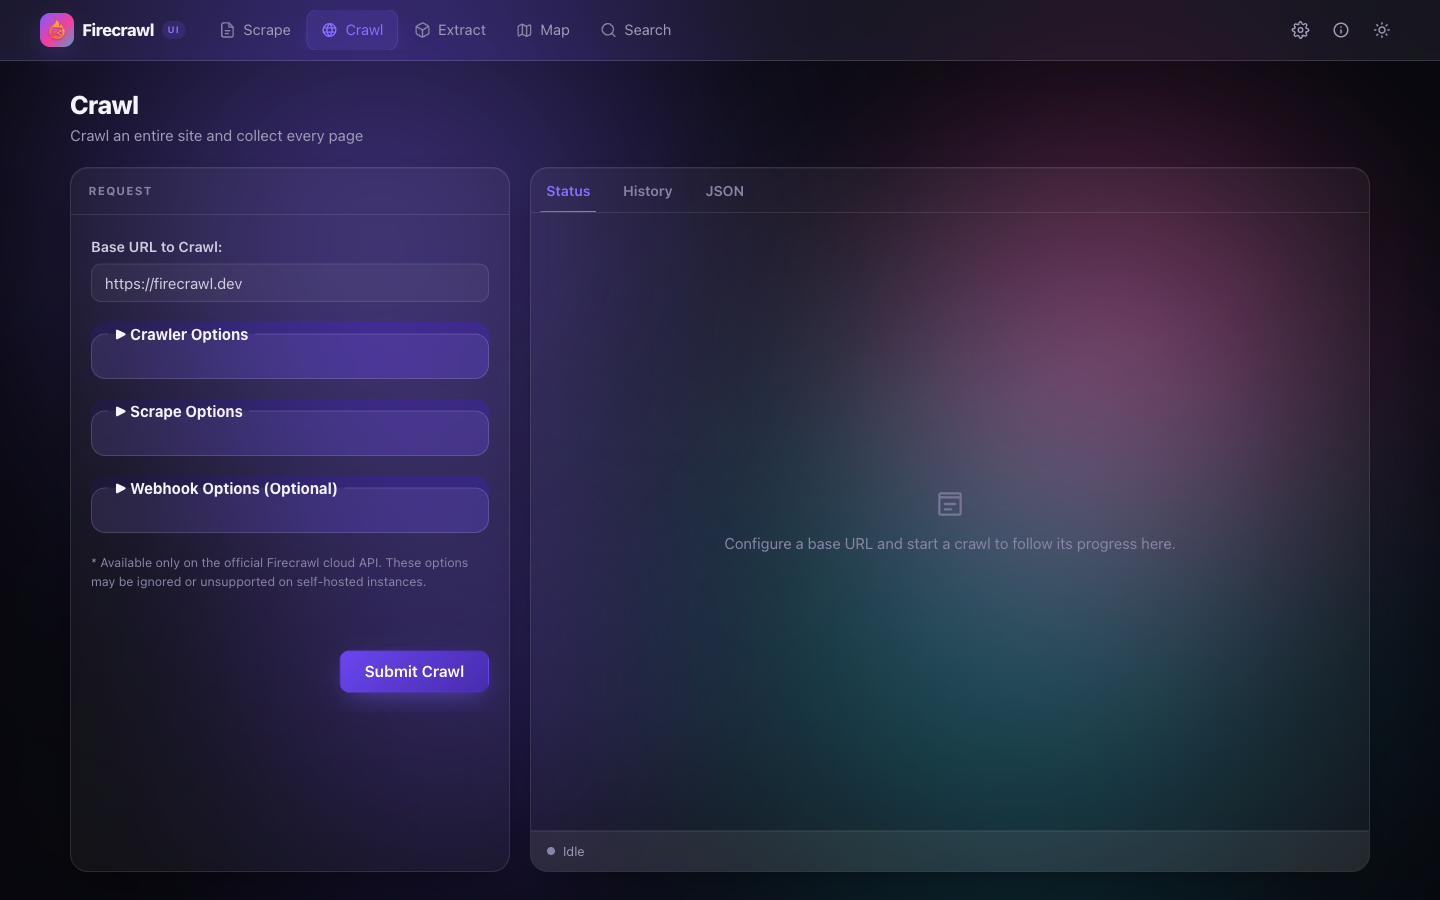
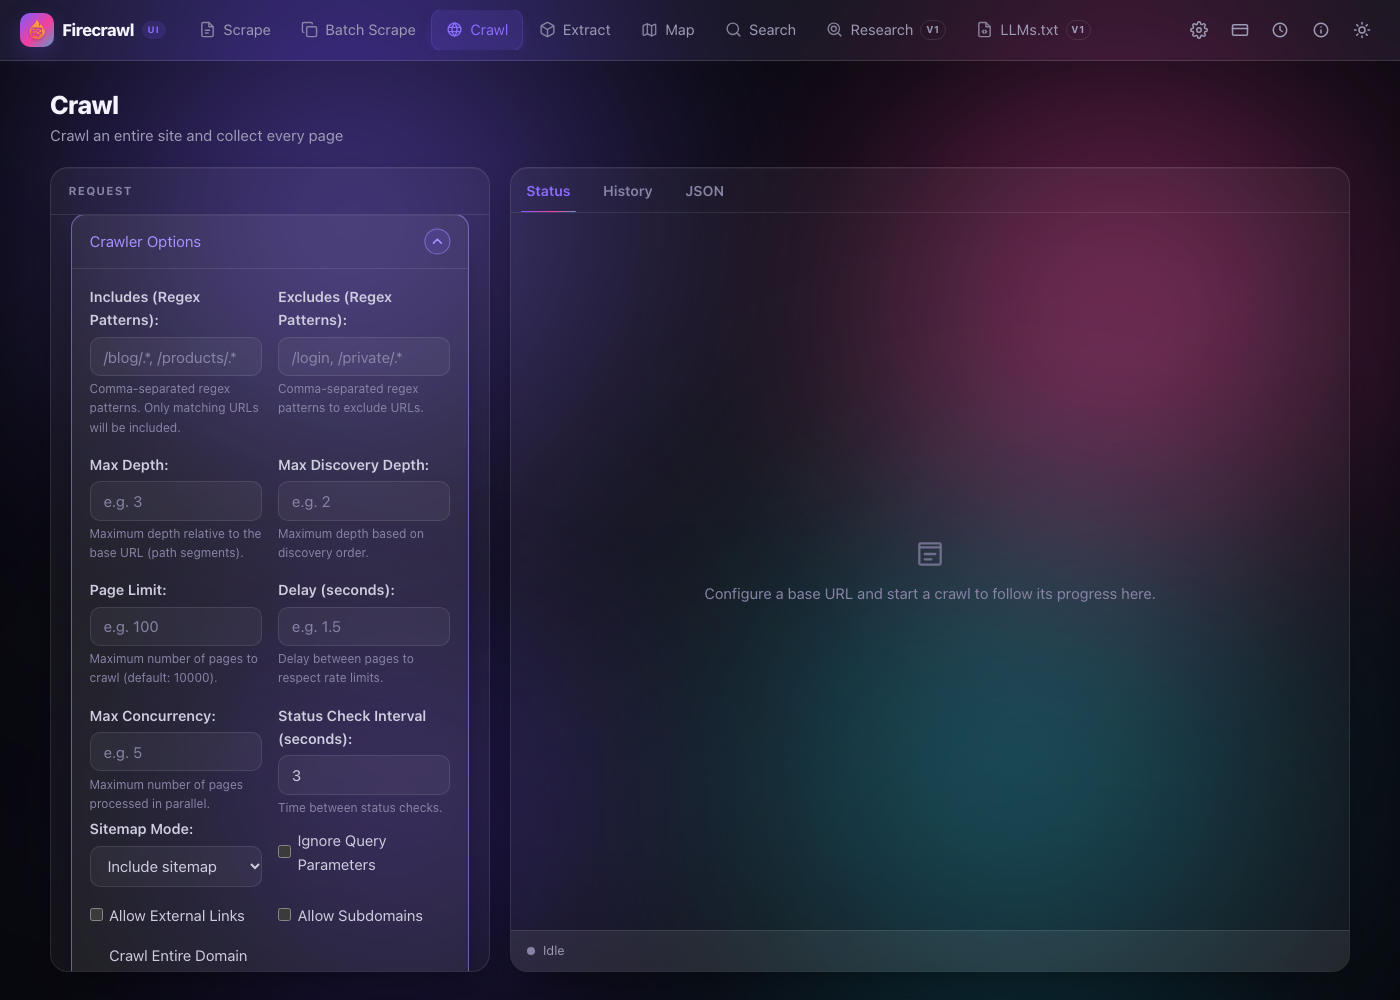
[firecrawl-ui] Refresh README for the redesign and CalVer releases (#156)
* docs(readme): refresh screenshots and document CalVer releases

Replace the pre-redesign screenshots, add Batch scrape and History to the
features, document the image tags and the Release workflow, add release
and Docker pulls badges, and compact the API compatibility table.

* docs(readme): document tag-based CalVer releases

---------

diff --git a/README.md b/README.md
@@ -10,13 +10,16 @@
 ![Docker](https://img.shields.io/badge/Docker-Ready-2496ED?logo=docker&logoColor=white)
 [![License](https://img.shields.io/github/license/obeone/firecrawl-ui)](LICENSE)
 [![CI](https://github.com/obeone/firecrawl-ui/actions/workflows/ci.yml/badge.svg)](https://github.com/obeone/firecrawl-ui/actions/workflows/ci.yml)
+[![Release](https://img.shields.io/github/v/tag/obeone/firecrawl-ui?label=release&sort=date)](https://github.com/obeone/firecrawl-ui/tags)
+[![Docker Pulls](https://img.shields.io/docker/pulls/obeoneorg/firecrawl-ui?logo=docker&logoColor=white)](https://hub.docker.com/r/obeoneorg/firecrawl-ui)
 
 </div>
 
 ---
 
-Firecrawl UI is a single-page Vue 3 app that puts the [Firecrawl API](https://firecrawl.dev/)
-tools behind a simple request/response interface. You don't need to write any
+Firecrawl UI is a single-page Vue 3 app that puts the
+[Firecrawl API](https://firecrawl.dev/) tools behind a simple
+request/response interface. You don't need to write any
 integration code: open the app, drop in a URL, and read the scraped content,
 crawl results, or extracted data right in the browser. Your API key and data
 stay local, and you can point it at the hosted Firecrawl service or your own
@@ -28,10 +31,12 @@ self-hosted instance.
 | :-: | :--------------- | :------------------------------------------------------------------------ |
 | 🔗  | **URL launcher** | Paste a URL on the home, pick an action, land in the tool pre-filled      |
 | 📄  | **Scrape**       | Turn a single page into clean markdown, HTML, links or structured data    |
+| 📚  | **Batch scrape** | Scrape a list of URLs in one job and export the results together          |
 | 🕷  | **Crawl**        | Traverse a whole site with depth, include/exclude rules and live progress |
 | 🧠  | **Extract**      | Pull structured fields from URLs with a prompt or schema (AI)             |
 | 🗺  | **Map**          | List every reachable URL of a site to understand its structure            |
 | 🔍  | **Search**       | Query the web and get ranked results with optional page content           |
+| 🕘  | **History**      | Reopen past jobs by ID; only metadata is kept, in your browser            |
 | 🌗  | **Light / dark** | Glass + aurora theme, dark by default, remembered across sessions         |
 | 🔑  | **Local config** | API key and base URL stored in your browser, never sent anywhere else     |
 | 🏠  | **Self-hosting** | Point the base URL at your own Firecrawl instance (with or without a key) |
@@ -74,12 +79,13 @@ Open <http://localhost:8080/>. Prebuilt images:
 | :-------------------------------: | :-----------------------------: |
 | ![Scrape](screenshots/scrape.png) | ![Crawl](screenshots/crawl.png) |
 
-|               Extract               |
-| :---------------------------------: |
-| ![Extract](screenshots/extract.png) |
+|               Extract               |             Map             |
+| :---------------------------------: | :-------------------------: |
+| ![Extract](screenshots/extract.png) | ![Map](screenshots/map.png) |
 
 Each tool is a two-pane playground: build the request on the left, read the
-response (preview, JSON, links, …) on the right.
+response (preview, JSON, links and more) on the right. Option groups fold
+away so long forms stay readable.
 
 ## ⚙ Configuration
 
@@ -143,8 +149,27 @@ sends a strict Content-Security-Policy with the usual security headers
 build, so it applies behind any static host.
 
 Published images (`ghcr.io/obeone/firecrawl-ui`, `obeoneorg/firecrawl-ui`) are
-built only after CI passes. Tags: `latest` follows `main`, `sha-<commit>` pins a
-commit, and a `vX.Y.Z` git tag also publishes `X.Y.Z` and `X.Y`.
+built only after CI passes and signed with cosign.
+
+| Image tag      | Points to                        |
+| :------------- | :------------------------------- |
+| `latest`       | The last commit on `main`        |
+| `sha-<commit>` | One exact commit                 |
+| `YYYY.M.REV`   | A release, e.g. `2026.11.1`      |
+| `YYYY.M`       | The latest release of that month |
+
+Releases use CalVer `vYYYY.M.REV`, where `REV` counts the releases of the
+month from 1. Pushing such a tag runs CI, which publishes the images above
+and deploys the site:
+
+```sh
+git tag v2026.11.1
+git push origin v2026.11.1
+```
+
+The version is never written by hand: CI derives it from `git describe` and
+shows it on the About page (`2026.11.1-3-gabc1234` for commits after a
+release, `dev` for a build outside Git).
 
 ## 🔌 API
 
@@ -155,12 +180,14 @@ for the endpoints and payloads.
 
 ### Compatibility
 
-| Tool                                    | API                 | Status                                                        |
-| :-------------------------------------- | :------------------ | :------------------------------------------------------------ |
-| Scrape, Batch Scrape, Crawl, Extract    | `/v2`               | Supported                                                     |
-| Map, Search, API configuration, Billing | `/v2`               | Supported                                                     |
-| **Deep Research** (`/research`)         | `/v1` (tries `/v2`) | **Deprecated v1**, removed from Firecrawl Cloud on 2026-12-10 |
-| **LLMs.txt** (`/llmstxt`)               | `/v1` (tries `/v2`) | **Deprecated v1**, removed from Firecrawl Cloud on 2026-12-10 |
+| Tool                                    | API    | Status          |
+| :-------------------------------------- | :----- | :-------------- |
+| Scrape, Batch Scrape, Crawl, Extract    | `/v2`  | Supported       |
+| Map, Search, API configuration, Billing | `/v2`  | Supported       |
+| **Deep Research** (`/research`)         | `/v1`¹ | Deprecated (v1) |
+| **LLMs.txt** (`/llmstxt`)               | `/v1`¹ | Deprecated (v1) |
+
+¹ Tries `/v2` first, then falls back to `/v1`.
 
 Deep Research and LLMs.txt generation are not part of the v2 API. Firecrawl
 deprecated both legacy v1 endpoints and removes them from its cloud API on
@@ -185,8 +212,8 @@ flowchart TB
 ## 🤝 Contributing
 
 Contributions are welcome. Run `npm run format:check`, `npm run lint`,
-`npm run typecheck` and `npm test` before opening a pull request; CI blocks on
-each of them. PR titles follow `[firecrawl-ui] <Title>`.
+`npm run typecheck` and `npm test` before opening a pull request; CI blocks
+on each of them. PR titles follow `[firecrawl-ui] <Title>`.
 
 ## 📝 License
 
